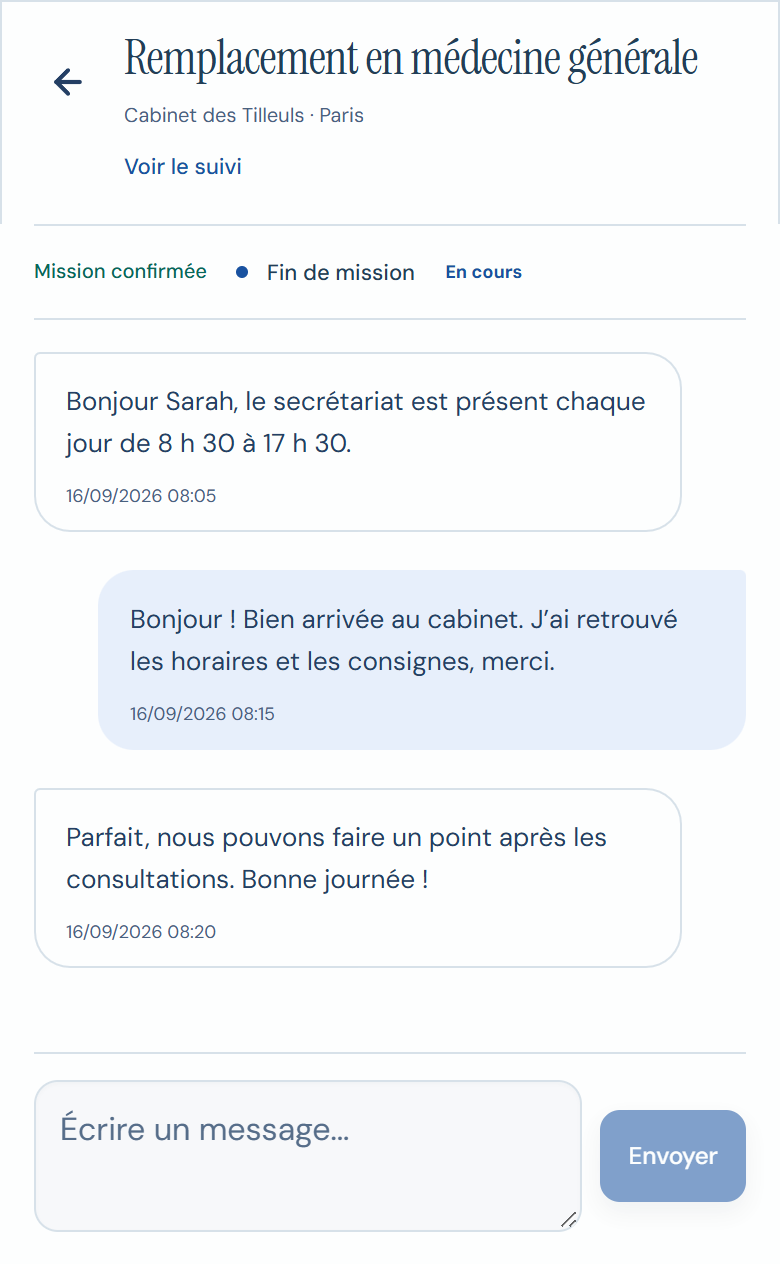
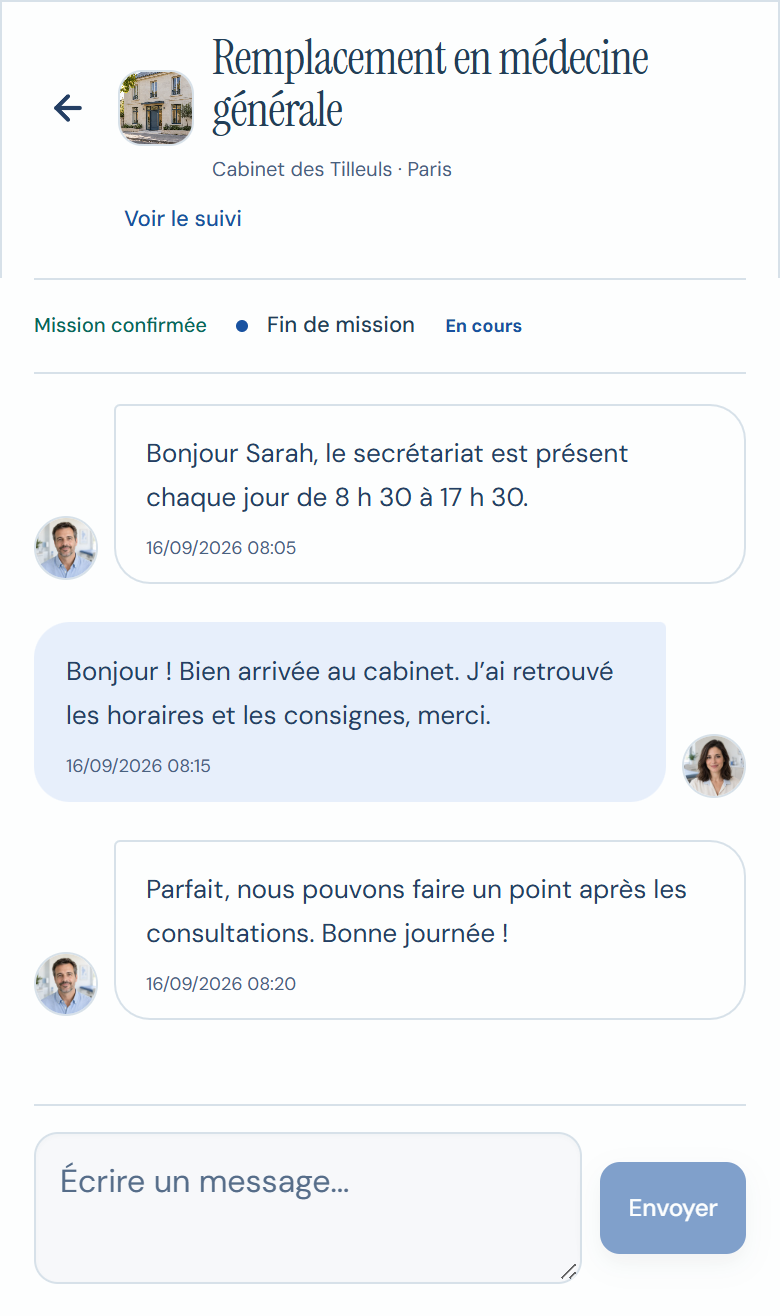
feat: add portraits and practice photography to landing previews

diff --git a/medilink-frontend-v2-polished/components/MessageCenter.tsx b/medilink-frontend-v2-polished/components/MessageCenter.tsx
@@ -8,7 +8,8 @@ import { useAutoRefresh } from '@/lib/use-auto-refresh';
 import { formatCompensation, formatDate, formatDateTime } from '@/lib/format';
 import { candidateContractedArticle, candidateHas, candidateNoun, candidateWithArticle } from '@/lib/grammar';
 import { Alert, Badge, Button, Card, EmptyState, Field, Input, LoadingCard, Textarea } from './ui';
-import { useAuth } from './AuthProvider';
+import { useAuth } from './AuthProvider';
+import { ProfileAvatar } from './ProfileAvatar';
 import { errorMessage } from '@/lib/user-facing';
 
 
@@ -154,6 +155,10 @@ function workflowLabel(kind: WorkflowKind) {
   return labels[kind];
 }
 
+function profileName(profile?: Profile | null) {
+  return [profile?.firstName, profile?.lastName].filter(Boolean).join(' ');
+}
+
 export function MessageCenter({ establishmentId }: { establishmentId?: string }) {
   const { user } = useAuth();
   const searchParams = useSearchParams();
@@ -236,6 +241,13 @@ export function MessageCenter({ establishmentId }: { establishmentId?: string })
   const candidate = user?.role === 'CANDIDATE';
   const currentRetrocession = lastProposal?.workflow?.proposal?.compensationMode === 'RETROCESSION';
   const activeCandidateProfile = active?.application?.candidate?.profile;
+  const activeEstablishmentPhoto = active?.establishment?.photos?.find((photo) => photo.isPrimary && photo.url)?.url
+    || active?.establishment?.photos?.find((photo) => photo.url)?.url
+    || active?.establishment?.logoUrl;
+  const activeConversationPhoto = recruiter ? activeCandidateProfile?.avatarUrl : activeEstablishmentPhoto;
+  const activeConversationName = recruiter
+    ? profileName(activeCandidateProfile) || 'Remplaçant'
+    : active?.establishment?.name || 'Établissement';
   const currentStatus = state.invoices
     ? 'Factures disponibles'
     : state.released
@@ -831,7 +843,13 @@ export function MessageCenter({ establishmentId }: { establishmentId?: string })
             const last = conv.messages?.[0];
             const title = conv.establishment?.name || conv.mission?.title || 'Conversation';
             const preview = last?.body.startsWith(WORKFLOW_PREFIX) ? 'Mise a jour du suivi' : last?.body || 'Aucun message';
-            const initial = title.trim().charAt(0).toUpperCase() || 'M';
+            const avatarProfile = conv.application?.candidate?.profile;
+            const avatarSource = recruiter ? avatarProfile?.avatarUrl : (
+              conv.establishment?.photos?.find((photo) => photo.isPrimary && photo.url)?.url
+              || conv.establishment?.photos?.find((photo) => photo.url)?.url
+              || conv.establishment?.logoUrl
+            );
+            const avatarName = recruiter ? profileName(avatarProfile) || title : title;
             return (
               <button
                 key={conv.id}
@@ -839,7 +857,7 @@ export function MessageCenter({ establishmentId }: { establishmentId?: string })
                 aria-current={conv.id === activeId ? 'true' : undefined}
                 onClick={() => setActiveId(conv.id)}
               >
-                <span className="conversation-mobile-avatar" aria-hidden="true">{initial}</span>
+                <ProfileAvatar src={avatarSource} name={avatarName} className={`conversation-photo conversation-mobile-avatar${recruiter ? '' : ' conversation-photo--establishment'}`} decorative />
                 <span className="conversation-mobile-content">
                   <span className="conversation-mobile-head">
                     <strong>{title}</strong>
@@ -877,6 +895,7 @@ export function MessageCenter({ establishmentId }: { establishmentId?: string })
                   </svg>
                 </button>
               ) : null}
+              {active ? <ProfileAvatar src={activeConversationPhoto} name={activeConversationName} className={`conversation-photo conversation-header-photo${recruiter ? '' : ' conversation-photo--establishment'}`} decorative /> : null}
               <div className="conversation-title-meta">
                 <h2 id={conversationTitleId}>{active?.mission?.title || 'Conversation'}</h2>
                 <div className="conversation-subtitle">{[active?.establishment?.name, active?.mission?.city].filter(Boolean).join(' · ')}</div>
@@ -999,10 +1018,21 @@ export function MessageCenter({ establishmentId }: { establishmentId?: string })
 
               const mine = m.senderUserId === user?.id;
               const system = m.messageType === 'SYSTEM';
-              return (
+              const senderProfile = m.sender?.profile
+                || (m.senderUserId === active?.candidateUserId ? activeCandidateProfile : null)
+                || messages.find((message) => message.senderUserId === m.senderUserId && message.sender?.profile)?.sender?.profile;
+              const senderName = profileName(senderProfile) || (mine ? 'Vous' : active?.establishment?.name || 'Interlocuteur');
+              const bubble = (
                 <div key={m.id} className={`message ${mine ? 'mine' : ''} ${system ? 'system' : ''} ${m.localStatus === 'pending' ? 'pending' : ''}`}>
                   <div>{m.body}</div>
                   <div className="small">{m.localStatus === 'pending' ? 'Envoi...' : formatDateTime(m.createdAt)}</div>
+                </div>
+              );
+              if (system) return bubble;
+              return (
+                <div key={m.id} className={`message-row${mine ? ' mine' : ''}`}>
+                  <ProfileAvatar src={senderProfile?.avatarUrl} name={senderName} className="conversation-photo message-sender-photo" />
+                  {bubble}
                 </div>
               );
             })}

diff --git a/medilink-frontend-v2-polished/app/workspace-messages.css b/medilink-frontend-v2-polished/app/workspace-messages.css
@@ -47,7 +47,7 @@
 .workspace-design .message-layout--editorial .conversation-mobile-search svg { flex-shrink: 0; color: var(--brand-muted); }
 .workspace-design .message-layout--editorial .conversation-mobile-search input { font-size: 12px; }
 .workspace-design .message-layout.message-layout--editorial .conversation-button {
-  grid-template-columns: 34px minmax(0, 1fr);
+  grid-template-columns: 40px minmax(0, 1fr);
   align-items: start;
   gap: 11px;
   padding: 17px 12px;
@@ -62,15 +62,18 @@
 }
 .workspace-design .message-layout--editorial .conversation-button:hover { background: var(--brand-mist); }
 .workspace-design .message-layout.message-layout--editorial .conversation-mobile-avatar {
-  width: 34px;
-  height: 38px;
+  width: 40px;
+  height: 40px;
   border: 0;
   border-radius: 50%;
   background: transparent;
   color: var(--brand-primary);
-  font: 400 30px/1 var(--brand-serif);
+  font: 400 23px/1 var(--brand-serif);
   box-shadow: none;
 }
+.workspace-design .message-layout.message-layout--editorial .conversation-photo--establishment { border-radius: 12px; }
+.workspace-design .message-layout--editorial .conversation-header-title-wrapper { gap: 13px; }
+.workspace-design .message-layout--editorial .conversation-title-meta { min-width: 0; }
 .workspace-design .message-layout--editorial .conversation-mobile-head { gap: 5px; }
 .workspace-design .message-layout--editorial .conversation-mobile-head strong { font-size: 13px; line-height: 1.5; font-weight: 600; }
 .workspace-design .message-layout--editorial .conversation-mobile-head > span { font-size: 9px; }
@@ -162,6 +165,17 @@
   border-radius: 18px 3px 18px 18px;
   background: var(--brand-mist);
 }
+.workspace-design .message-layout--editorial .message-row {
+  display: flex;
+  align-items: flex-end;
+  gap: 10px;
+  width: fit-content;
+  max-width: 90%;
+  min-width: 0;
+}
+.workspace-design .message-layout--editorial .message-row.mine { flex-direction: row-reverse; margin-left: auto; }
+.workspace-design .message-layout--editorial .message-row > .message { max-width: none; min-width: 0; margin-left: 0; }
+.workspace-design .message-layout--editorial .message-sender-photo { width: 34px; height: 34px; margin-bottom: 2px; font-size: 15px; }
 .workspace-design .message-layout--editorial .message .small { margin-top: 11px; color: var(--brand-muted); font-size: 9px; }
 .workspace-design .message-layout.message-layout--editorial .message-form {
   align-items: center;
@@ -214,6 +228,8 @@
   .workspace-design .message-layout--editorial .message-pane > .conversation-header { flex-wrap: wrap; padding: 15px 17px 11px !important; gap: 0 10px !important; }
   .workspace-design .message-layout--editorial .conversation-header-top { flex: 1 1 100%; }
   .workspace-design .message-layout--editorial .conversation-title-meta h2 { font-size: 24px; line-height: 1.1; }
+  .workspace-design .message-layout--editorial .conversation-header-title-wrapper { gap: 9px; }
+  .workspace-design .message-layout--editorial .conversation-header-photo { width: 38px; height: 38px; }
   .workspace-design .message-layout--editorial .conversation-subtitle { margin-top: 6px; font-size: 10px; }
   .workspace-design .message-layout--editorial .conversation-back-button { width: 32px; height: 44px; min-width: 32px; padding: 0; border: 0; background: transparent; box-shadow: none; }
   .workspace-design .message-layout--editorial .conversation-header-actions { margin-left: 44px; gap: 14px; flex-wrap: wrap; }
@@ -225,6 +241,9 @@
   .workspace-design .message-layout.message-layout--editorial .messages { padding: 23px 17px; }
   .workspace-design .message-layout--editorial .message-log { gap: 19px; }
   .workspace-design .message-layout--editorial .message:not(.system) { max-width: 91%; padding: 13px 15px 10px; font-size: 13px; line-height: 1.65; }
+  .workspace-design .message-layout--editorial .message-row { max-width: 100%; gap: 8px; }
+  .workspace-design .message-layout--editorial .message-row > .message { max-width: none; }
+  .workspace-design .message-layout--editorial .message-sender-photo { width: 32px; height: 32px; }
   .workspace-design .message-layout--editorial .message .small { margin-top: 9px; }
   .workspace-design .message-layout.message-layout--editorial .message-form { margin: 0 17px; padding: 13px 0 16px; gap: 9px; }
   .workspace-design .message-layout--editorial .message-form .textarea { min-height: 48px; padding: 12px; font-size: 16px; }

diff --git a/medilink-frontend-v2-polished/app/(platform)/app/current-missions/page.tsx b/medilink-frontend-v2-polished/app/(platform)/app/current-missions/page.tsx
@@ -12,6 +12,7 @@ import { useAutoRefresh } from '@/lib/use-auto-refresh';
 import { Alert, Button, EmptyState, Input, LinkButton, LoadingCard, PageHeader } from '@/components/ui';
 import { errorMessage } from '@/lib/user-facing';
 import { ReplacementDossier } from '@/components/ReplacementDossier';
+import { ProfileAvatar } from '@/components/ProfileAvatar';
 
 type MissionStep = {
   key: string;
@@ -398,6 +399,10 @@ function MissionCommandStrip({ row }: { row: MissionRow }) {
 function MissionControlPanel({ row, activeSection }: { row: MissionRow; activeSection: MissionSection }) {
   const mission = row.application.mission;
   const establishment = mission?.establishment;
+  const establishmentPhoto = establishment?.photos?.find(photo => photo.isPrimary && photo.url)?.url
+    || establishment?.photos?.find(photo => photo.url)?.url || establishment?.logoUrl;
+  const candidate = row.conversation?.application?.candidate?.profile || row.application.candidate?.profile;
+  const candidateName = [candidate?.firstName, candidate?.lastName].filter(Boolean).join(' ');
   const progress = missionProgress(row.application, row.agreement);
   const address = establishmentAddress(mission);
   const hasAddress = address !== 'Adresse à confirmer';
@@ -427,6 +432,25 @@ function MissionControlPanel({ row, activeSection }: { row: MissionRow; activeSe
                   <h2>Suivi de mission</h2>
                   <p>De la confirmation au règlement, chaque étape à sa place.</p>
                 </div>
+                {establishmentPhoto || candidateName ? (
+                  <div className="mission-folio-people">
+                    {establishmentPhoto ? (
+                      <div className="mission-folio-place">
+                        <ProfileAvatar src={establishmentPhoto} name={establishment?.name || 'Établissement'} className="mission-folio-place-photo" decorative />
+                        <div>
+                          <strong>{establishment?.name || 'Établissement'}</strong>
+                          {mission?.city || establishment?.city ? <span>{mission?.city || establishment?.city}</span> : null}
+                        </div>
+                      </div>
+                    ) : null}
+                    {candidateName ? (
+                      <div className="mission-folio-person">
+                        <ProfileAvatar src={candidate?.avatarUrl} name={candidateName} decorative />
+                        <div><strong>{candidateName}</strong><span>Remplacement</span></div>
+                      </div>
+                    ) : null}
+                  </div>
+                ) : null}
                 <div className="mission-folio-progress">
                   <strong>{String(progress.filter((step) => step.done).length).padStart(2, '0')}<span> / {String(progress.length).padStart(2, '0')}</span></strong>
                   <span>étapes terminées</span>

diff --git a/medilink-frontend-v2-polished/app/workspace-details.css b/medilink-frontend-v2-polished/app/workspace-details.css
@@ -212,6 +212,16 @@
   line-height: 1;
 }
 
+/* The people and place come from the mission's existing profiles and photos. */
+.workspace-design .mission-folio-people { display: grid; gap: 16px; min-width: 0; }
+.workspace-design .mission-folio-place { display: grid; gap: 10px; min-width: 0; }
+.workspace-design .mission-folio-place-photo { width: 100%; height: 92px; border-radius: 9px; border: 1px solid var(--brand-line); }
+.workspace-design .mission-folio-place-photo img { object-position: center 58%; }
+.workspace-design .mission-folio-person { display: flex; align-items: center; gap: 10px; min-width: 0; }
+.workspace-design .mission-folio-person > span { width: 36px; height: 36px; }
+.workspace-design .mission-folio-people strong { display: block; color: var(--brand-heading); font-size: 12px; font-weight: 500; line-height: 1.4; overflow-wrap: anywhere; }
+.workspace-design :is(.mission-folio-place, .mission-folio-person) > div > span { display: block; margin-top: 3px; color: var(--brand-muted); font-size: 10px; line-height: 1.4; }
+
 .workspace-design .mission-folio-progress > strong > span {
   color: #8293a5;
   font-size: 24px;
@@ -588,6 +598,11 @@
   .workspace-design .mission-folio-intro h2 { font-size: 32px; margin: 8px 0 10px; }
   .workspace-design .mission-folio-route .mission-folio-intro p { font-size: 11px; }
   .workspace-design .mission-folio-progress { padding-top: 25px; }
+  .workspace-design .mission-folio-people { grid-column: 1 / -1; grid-row: 2; gap: 12px; }
+  .workspace-design .mission-folio-place { grid-template-columns: 76px minmax(0, 1fr); align-items: center; gap: 12px; }
+  .workspace-design .mission-folio-place-photo { width: 76px; height: 54px; border-radius: 7px; }
+  .workspace-design .mission-folio-person > span { width: 30px; height: 30px; }
+  .workspace-design .mission-folio-progress { grid-column: 2; grid-row: 1; }
   .workspace-design .mission-folio-progress > strong { font-size: 38px; }
   .workspace-design .mission-folio-progress > strong > span { font-size: 15px; }
   .workspace-design .mission-folio-progress > span { display: block; font-size: 9px; line-height: 1.4; }

diff --git a/medilink-frontend-v2-polished/components/ProfileAvatar.tsx b/medilink-frontend-v2-polished/components/ProfileAvatar.tsx
@@ -1,0 +1,30 @@
+'use client';
+
+import { useState } from 'react';
+import styles from './ProfileAvatar.module.css';
+
+export function ProfileAvatar({
+  src,
+  name,
+  className = '',
+  decorative = false,
+}: {
+  src?: string | null;
+  name: string;
+  className?: string;
+  decorative?: boolean;
+}) {
+  const [failedSource, setFailedSource] = useState<string | null>(null);
+  const showPhoto = Boolean(src && src !== failedSource);
+  const initials = name.trim().split(/\s+/).slice(0, 2).map((part) => part.charAt(0)).join('').toUpperCase() || 'M';
+
+  return (
+    <span className={`${styles.avatar} ${className}`} role={decorative ? undefined : 'img'} aria-label={decorative ? undefined : name} aria-hidden={decorative || undefined}>
+      {showPhoto ? (
+        // Profile and establishment images can use expiring signed URLs.
+        // eslint-disable-next-line @next/next/no-img-element
+        <img className={styles.image} src={src!} alt="" width={44} height={44} decoding="async" onError={() => setFailedSource(src!)} />
+      ) : initials}
+    </span>
+  );
+}

diff --git a/medilink-frontend-v2-polished/app/(public-home)/interface-previews.css b/medilink-frontend-v2-polished/app/(public-home)/interface-previews.css
@@ -57,7 +57,7 @@ html body.landing-home:not(.persona-page) .ml-interface-preview {
   .landing-home .ml-interface-window { width: min(100%, 310px); margin-inline: auto; padding: 6px; border: 1px solid #bdccde; border-radius: 26px; background: #fdfefe; box-shadow: 0 20px 35px -21px #1e42655c, 0 2px 5px #1e42650a; }
   .landing-home .ml-interface-open picture { border-radius: 20px; }
   /* A complete group of mission steps; the enlargement retains all six. */
-  .landing-home .ml-interface-preview--mission picture { aspect-ratio: 360 / 534; }
+  .landing-home .ml-interface-preview--mission picture { aspect-ratio: var(--ml-mission-preview-ratio); }
   .landing-home .ml-interface-preview--mission picture::after { content: ''; position: absolute; inset: auto 0 0; height: 24px; background: linear-gradient(transparent, var(--brand-paper)); pointer-events: none; }
   /* The complete compact document list, including its contextual actions. */
   .landing-home .ml-interface-preview--documents picture { aspect-ratio: var(--ml-documents-preview-ratio); }

diff --git a/medilink-frontend-v2-polished/content/landing-interface-preview.ts b/medilink-frontend-v2-polished/content/landing-interface-preview.ts
@@ -10,7 +10,7 @@ export function interfacePreview(name: PreviewName, className: string, title: st
   const source = (device: typeof desktop, retina = false) =>
     `/landing-assets/interface/${name}-${device.device}${retina ? '@2x' : ''}.webp?v=${device.sha256.slice(0, 12)}`;
 
-  const previewStyle = name === 'documents' ? ` style="--ml-documents-preview-ratio:${mobile.width}/${mobile.previewHeight}"` : '';
+  const previewStyle = name === 'documents' || name === 'mission' ? ` style="--ml-${name}-preview-ratio:${mobile.width}/${mobile.previewHeight}"` : '';
 
   return `<figure class="${className} ml-interface-preview ml-interface-preview--${name}" aria-label="${title}"${previewStyle}>
     <a class="ml-interface-open" href="${source(desktop, true)}" target="_blank" rel="noopener" data-interface-preview="${name}" aria-label="Voir l’interface : ${title} (agrandir)">

diff --git a/medilink-frontend-v2-polished/components/ProfileAvatar.module.css b/medilink-frontend-v2-polished/components/ProfileAvatar.module.css
@@ -1,0 +1,20 @@
+.avatar {
+  display: grid;
+  flex: 0 0 auto;
+  place-items: center;
+  overflow: hidden;
+  width: 44px;
+  height: 44px;
+  border: 1px solid var(--brand-line, #d6e0e9);
+  border-radius: 50%;
+  background: var(--brand-frost, #eef4fa);
+  color: var(--brand-primary, #1952a0);
+  font: 400 19px/1 var(--brand-serif, serif);
+}
+
+.image {
+  display: block;
+  width: 100%;
+  height: 100%;
+  object-fit: cover;
+}

diff --git a/medilink-frontend-v2-polished/public/landing-assets/interface/README.md b/medilink-frontend-v2-polished/public/landing-assets/interface/README.md
@@ -8,14 +8,16 @@ Start the frontend, then run from its directory:
 node scripts/capture-landing-interface.mjs http://localhost:3000
 ```
 
-The script uses an installed `playwright` module, or `PLAYWRIGHT_MODULE_PATH` when it is installed outside this project. The Codex workspace runtime is a fallback. `sharp` comes from the frontend's installed dependencies. On Windows, the default browser is installed Microsoft Edge; `CAPTURE_BROWSER_CHANNEL` overrides it.
+The script uses an installed `playwright` module, or `PLAYWRIGHT_MODULE_PATH` when it is installed outside this project. The Codex workspace runtime is a fallback. `sharp` is resolved from Next.js dependencies; `SHARP_MODULE_PATH` can select a compatible installed runtime. On Windows, the default browser is installed Microsoft Edge; `CAPTURE_BROWSER_CHANNEL` overrides it.
 
 `CAPTURE_OUTPUT_DIR` selects another destination for visual review. `CAPTURE_ONLY=messages,mission,documents` can limit a review run; `CAPTURE_DEVICE=desktop` or `mobile` limits it to one native layout. Partial runs require `CAPTURE_OUTPUT_DIR`, preventing them from replacing the complete public manifest. Use the full default run for the production manifest.
 
 The captures use French locale, Europe/Paris time and a fixed 16 September 2026 clock. All API responses are intercepted; an unknown API request or external service makes the run fail. The application font requests are permitted. The only injected CSS hides the Next.js development indicator.
 
 - Messages: `/app/messages?id=c1`, the native `.message-layout` component. Desktop includes the conversation list; mobile shows the selected conversation. General application navigation and the page title stay outside the crop. The viewport height is calculated from the real rendered messages to keep all three text bubbles and the complete composer visible.
-- Mission: `/app/current-missions`, the real mission timeline with a small crop of its surrounding surface. The 1100 px desktop viewport keeps the native two-column timeline while making its contents larger in the landing preview; mobile remains at 390 px.
+- Mission: `/app/current-missions`, the real mission timeline with its establishment photo and candidate profile. The 1100 px desktop viewport keeps the native two-column timeline; mobile remains at 390 px. The viewport grows to keep fixed navigation outside the image. The mobile `previewHeight` is measured after the third complete step; enlargement shows all six.
 - Documents: `/app/current-missions?section=documents`, the real shared replacement dossier. The fixture contains a prepared contract, a declaration, an Ordre registration certificate and RCP insurance; it does not claim an electronic signature or an Ordre approval. The native `.replacement-dossier` component is captured with its actions and document states. The mobile viewport remains at 390 px. Its height grows to keep fixed navigation outside the capture. The homepage mobile preview stops after the first complete supporting-document row, using the measured `previewHeight`; enlargement shows the complete dossier including transmission.
 
 `manifest.json` records the source routes, viewport sizes, crops, output dimensions, browser version and SHA-256 of each 2× image. Both 1× and 2× files are lossless WebP. Regenerate the whole set after interface changes; do not retouch the UI inside individual images.
+
+Portraits and the establishment photo are fictional generated assets documented in `../people/README.md`. They are injected only through screenshot fixtures, never as default photos for real accounts. Image decoding finishes before capture. When only messages or mission photos change, run a partial capture into a review directory and replace those files and their matching manifest entries together, preserving the documents preview.

diff --git a/medilink-frontend-v2-polished/public/landing-assets/people/README.md b/medilink-frontend-v2-polished/public/landing-assets/people/README.md
@@ -1,0 +1,19 @@
+# Fictional landing photography
+
+Generated with the built-in ImageGen tool on 19 September 2026 for the native interface capture fixtures. These are fictional people and a fictional practice, not testimonials or real users. They are supplied only by `scripts/fixtures/landing-interface.mjs`; live accounts keep their own uploaded photos and initials when unavailable.
+
+Optimized WebP assets: `sarah-bernard.webp` and `thomas-martin.webp` (320 × 320), `cabinet-des-tilleuls.webp` (720 × 480). The original generated PNGs are preserved outside the repository. Only sizing and WebP encoding are applied.
+
+## Prompts
+
+### Sarah Bernard
+
+Use case: photorealistic-natural. Asset type: square profile photograph for a fictional French medical professional inside MédiLink interface previews. Subject: one fictional woman doctor aged 33, natural shoulder-length dark brown hair, warm brown eyes, gentle confident smile, cream blouse with subtle pale blue collar, no lab coat or props. Head-and-shoulders portrait facing camera, centered face, generous margin around head suitable for circular avatar crop, face clearly readable at small size. Background softly blurred ivory medical practice, very subtle muted pale blue details. Soft window light, authentic natural skin texture, editorial documentary photography, warm and approachable yet professional. Palette porcelain white, soft stone, desaturated brand blue matching #1952a0. No text, no logo, no watermark, no border, no collage, no other people. Single square photograph.
+
+### Thomas Martin
+
+Use case: photorealistic-natural. Asset type: square profile photograph for a fictional French medical professional inside MédiLink interface previews. Subject: one fictional man doctor aged 45, short dark hair with a little gray at temples, light short beard, warm calm expression and slight smile, simple soft blue oxford shirt without tie, no lab coat or props. Head-and-shoulders portrait facing camera, centered face, generous margin around head suitable for circular avatar crop, face clearly readable at small size. Background softly blurred ivory medical practice, very subtle muted pale blue details. Soft window light, authentic natural skin texture, editorial documentary photography, warm and approachable yet professional. Palette porcelain white, soft stone, desaturated brand blue matching #1952a0. No text, no logo, no watermark, no border, no collage, no other people. Single square photograph.
+
+### Cabinet des Tilleuls
+
+Use case: photorealistic-natural. Asset type: fictional French neighborhood medical practice photograph for establishment thumbnails and a small landscape cover in MédiLink interface previews. Subject: welcoming compact two-storey medical practice in a French residential neighborhood, pale limestone facade, tall windows, understated muted blue entrance door and glass sidelights, tasteful green linden tree branches at the edge and modest planters, accessible level entrance. Architectural editorial photograph, human-scale setting, honest contemporary architecture, soft morning daylight and very subtle warm tones, clean but lived-in and believable. Near-frontal three-quarter framing of the central facade, doorway and main windows centered so a square avatar crop as well as landscape card crops retain the subject. Color palette ivory stone, porcelain, muted slate and brand blue #1952a0, restrained natural foliage. No people, no cars, no readable signage, no medical logos or crosses, no text, no watermark, no collage or frames. Single landscape photograph, 3:2 composition.

diff --git a/medilink-frontend-v2-polished/AGENTS.md b/medilink-frontend-v2-polished/AGENTS.md
@@ -10,6 +10,8 @@ This block is written and re-added by `next dev` — verify at `node_modules/nex
 
 ## Landing pages and SEO
 
+The user requested generated human portraits and an establishment photograph inside the landing's interface previews. The fictional assets and generation prompts are in `public/landing-assets/people/`, supplied only by `scripts/fixtures/landing-interface.mjs`. The real `MessageCenter` and mission timeline display existing profile/establishment image URLs through `ProfileAvatar`, with initials on missing or failed images. Never use fictional photos as defaults for real accounts. Preserve the blue/porcelain editorial styling, surrounding landing copy, process animations and documents preview. Regenerate genuine messages/mission captures after changes. The mobile mission crop uses the manifest's measured `previewHeight` to keep the first three steps complete; its enlargement keeps all six.
+
 The user subsequently approved removing the desktop window decoration from all three landing captures: no top toolbar, dots, title/ML mark, added border or window shadow. Keep the underlying application captures and soft stage background; the mobile phone frame remains. The visible “Voir l’interface” / “Agrandir l’aperçu” links and their reserved bottom space are removed on all screen sizes. The image itself remains an accessible link to its enlargement. This supersedes the earlier desktop window and visible enlargement-link requirements below.
 
 The user explicitly removed the three captions beneath the genuine landing previews (their titles plus “Interface MédiLink · Données de démonstration”). Do not restore those visible captions on desktop or mobile. Each figure keeps its accessible name through `aria-label`, which also supplies the lightbox title. This supersedes earlier requirements below to show captions outside the previews; fictional fixtures and native captures remain required.
